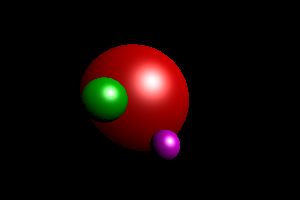
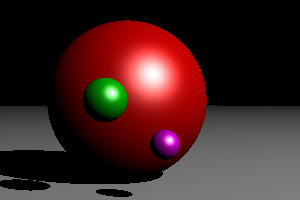
Added surface sphere

diff --git a/ray_tracer.py b/ray_tracer.py
@@ -31,10 +31,15 @@ def nearest_intersected_object(objects, ray_origin, ray_direction):
 
 
 def render():
+    # Dimensions of screen output
+    # Increase for higher resolution
     width = 300
     height = 200
 
-    camera = np.array([0, 0, 1])
+    # Camera position
+    camera = np.array([0, 0, 3])
+
+    # Light properties
     light = {'position': np.array([5, 5, 5]),
              'ambient': np.array([1, 1, 1]),
              'diffuse': np.array([1, 1, 1]),
@@ -43,13 +48,16 @@ def render():
     ratio = float(width) / height
     screen = (-1, 1 / ratio, 1, -1 / ratio)  # left, top, right, bottom
 
+    # Object properties
     objects = [
         {'center': np.array([-0.2, 0, -1]), 'radius': 0.7, 'ambient': np.array([0.1, 0, 0]),
          'diffuse': np.array([0.7, 0, 0]), 'specular': np.array([1, 1, 1]), 'shininess': 100},
         {'center': np.array([0.1, -0.3, 0]), 'radius': 0.1, 'ambient': np.array([0.1, 0, 0.1]),
          'diffuse': np.array([0.7, 0, 0.7]), 'specular': np.array([1, 1, 1]), 'shininess': 100},
         {'center': np.array([-0.3, 0, 0]), 'radius': 0.15, 'ambient': np.array([0, 0.1, 0]),
-         'diffuse': np.array([0, 0.6, 0]), 'specular': np.array([1, 1, 1]), 'shininess': 100}
+         'diffuse': np.array([0, 0.6, 0]), 'specular': np.array([1, 1, 1]), 'shininess': 100},
+        {'center': np.array([0, -9000, 0]), 'radius': 9000 - 0.7, 'ambient': np.array([0.1, 0.1, 0.1]),
+         'diffuse': np.array([0.6, 0.6, 0.6]), 'specular': np.array([1, 1, 1]), 'shininess': 100}
     ]
 
     image = np.zeros((height, width, 3))
@@ -85,7 +93,7 @@ def render():
 
             # Render object using Blinn-Phong model
 
-            # RGB
+            # RGB values
             illumination = np.zeros((3))
 
             # Ambient
